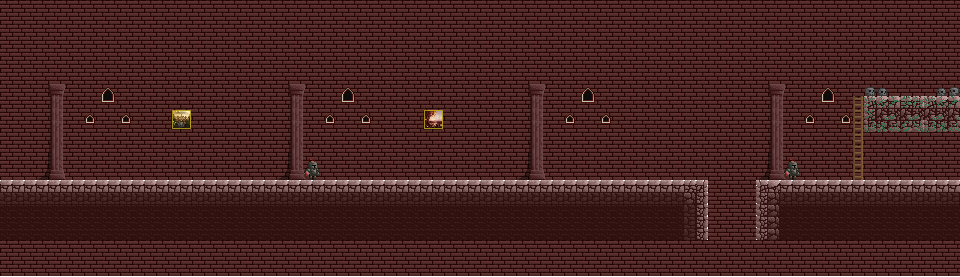
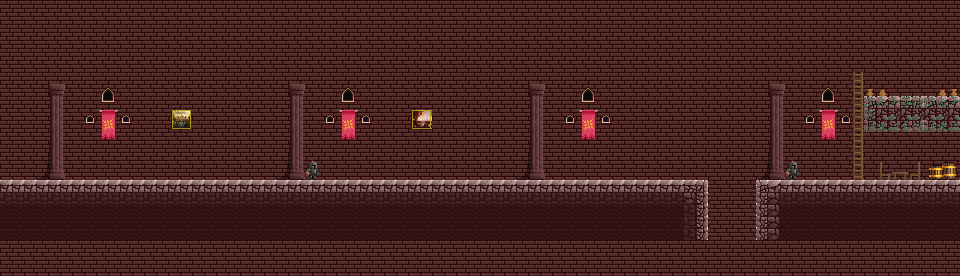
props added to level 3

Changed region(s): [[0.0, 0.2609, 1.0, 1.0]]

diff --git a/src/lvl3.cpp b/src/lvl3.cpp
@@ -5,6 +5,7 @@ Level3::Level3()
     loadinstr();
     loadmap();
     loadplayer();
+    loadprops();
     addcolliders();
     s = LoadSound("");
 }
@@ -12,8 +13,9 @@ Level3::Level3()
 Level3::~Level3()
 {
     instpage.unload();
+    unloadprops();
     player = nullptr;
-    map1 = map2 = nullptr;
+    map = map1 = map2 = nullptr;
     UnloadSound(s);
 }
 
@@ -46,14 +48,14 @@ void Level3::updatechar(float dt)
     if (IsKeyDown(KEY_A))
         player->vel.x = -1.0;
 
-    // if (IsKeyDown(KEY_S))
-    //     player->vel.y = 1.0;
+    if (IsKeyDown(KEY_S) and stairs)
+        player->vel.y = 1.0;
 
     if (IsKeyDown(KEY_D))
         player->vel.x = 1.0;
 
-    // if (IsKeyDown(KEY_W))
-    //     player->vel.y = -1.0;
+    if (IsKeyDown(KEY_W) and stairs)
+        player->vel.y = -1.0;
 
     if (Vector2Length(player->vel) != 0.0)
     {
@@ -92,7 +94,8 @@ void Level3::updatechar(float dt)
 
     Rectangle source{player->frame * player->width, 0.f, player->right_left * player->width, player->height};
     Rectangle dest{player->xpos, player->ypos, player->scale * player->width, player->scale * player->height};
-    DrawTexturePro(player->texture.getTexture(), source, dest, Vector2{}, 0.0, WHITE);
+    if ((firstm and !enter) || (!firstm and enter))
+        DrawTexturePro(player->texture.getTexture(), source, dest, Vector2{}, 0.0, WHITE);
 }
 
 void Level3::render()
@@ -105,12 +108,89 @@ void Level3::render()
     {
         camx = 1920.f;
     }
-    
-    map1->drawmap(Vector2{camx, camy});
+
+    if (firstm)
+    {
+        map1->drawmap(Vector2{camx, camy});
+        DrawTexturePro(rdoor.tex, Rectangle{(rdoor.frame % 5) * 24.f, (rdoor.frame / 5) * 24.f, 24.f, 24.f}, Rectangle{rdoor.pos.x, rdoor.pos.y, 192.f, 192.f}, Vector2{camx, camy}, 0.f, WHITE);
+        for (auto t : ftorches)
+            DrawTexturePro(t.tex, Rectangle{t.id * 24.f, t.frame * 24.f, 24.f, 24.f}, Rectangle{t.pos.x, t.pos.y, 96.f, 96.f}, Vector2{camx, camy}, 0.f, WHITE);
+        for (auto &c : fcandles)
+            DrawTexturePro(c.tex, Rectangle{c.id * 12.f, c.frame * 12.f, 12.f, 12.f}, Rectangle{c.pos.x, c.pos.y, 48.f, 48.f}, Vector2{camx, camy}, 0.f, WHITE);
+        for (auto &s : fchan)
+            DrawTexturePro(s.tex, Rectangle{s.id * 36.f, s.frame * 36.f, 36.f, 36.f}, Rectangle{s.pos.x, s.pos.y, 144.f, 144.f}, Vector2{camx, camy}, 0.f, WHITE);
+    }
+    else
+    {
+        map2->drawmap(Vector2{camx, camy});
+        DrawTexturePro(ddoor.tex, Rectangle{(ddoor.frame % 5) * 24.f, (ddoor.frame / 5) * 24.f, 24.f, 24.f}, Rectangle{ddoor.pos.x, ddoor.pos.y, 192.f, 192.f}, Vector2{camx, camy}, 0.f, WHITE);
+        for (auto &t : storches)
+            DrawTexturePro(t.tex, Rectangle{t.id * 24.f, t.frame * 24.f, 24.f, 24.f}, Rectangle{t.pos.x, t.pos.y, 96.f, 96.f}, Vector2{camx, camy}, 0.f, WHITE);
+        for (auto &c : scandles)
+            DrawTexturePro(c.tex, Rectangle{c.id * 12.f, c.frame * 12.f, 12.f, 12.f}, Rectangle{c.pos.x, c.pos.y, 48.f, 48.f}, Vector2{camx, camy}, 0.f, WHITE);
+        for (auto &s : schan)
+            DrawTexturePro(s.tex, Rectangle{s.id * 36.f, s.frame * 36.f, 36.f, 36.f}, Rectangle{s.pos.x, s.pos.y, 144.f, 144.f}, Vector2{camx, camy}, 0.f, WHITE);
+    }
 }
 
 void Level3::update(float dt)
 {
+    frame_cnt++;
+    frame_cnt %= 30;
+
+    if (IsKeyPressed(KEY_ENTER))
+        opendoor = true;
+    if (opendoor and (frame_cnt % 4 == 0))
+        rdoor.frame++;
+    if (rdoor.frame == 21)
+        firstm = false;
+    if (rdoor.frame > 20)
+        rdoor.frame = 20;
+    if ((!firstm and !dooropen) and (frame_cnt % 4 == 0))
+        ddoor.frame++;
+    if (ddoor.frame == 20)
+        enter = true;
+    if (ddoor.frame > 20)
+        ddoor.frame = 20;
+
+    if (frame_cnt % 10 == 0)
+    {
+        for (auto &t : ftorches)
+        {
+            t.frame++;
+            t.frame %= 3;
+        }
+        for (auto &t : storches)
+        {
+            t.frame++;
+            t.frame %= 3;
+        }
+    }
+
+    if (frame_cnt % 5 == 0)
+    {
+        for (auto &c : fcandles)
+        {
+            c.frame++;
+            c.frame %= 6;
+        }
+        for (auto &c : scandles)
+        {
+            c.frame++;
+            c.frame %= 6;
+        }
+        for (auto &s : fchan)
+        {
+            s.frame++;
+            s.frame %= 6;
+        }
+        for (auto &s : schan)
+        {
+            s.frame++;
+            s.frame %= 6;
+        }
+    }
+
     updatechar(dt);
 }
 
@@ -127,4 +207,59 @@ void Level3::loadinstr()
 void Level3::instr()
 {
     DrawTexture(instpage.getTexture(), 0, 0, WHITE);
+}
+
+void Level3::loadprops()
+{
+    ftorches.push_back(Torch{0, 0, Vector2{312.f, 336.f}});
+    ftorches.push_back(Torch{1, 0, Vector2{456.f, 336.f}});
+    ftorches.push_back(Torch{4, 0, Vector2{1272.f, 336.f}});
+    ftorches.push_back(Torch{5, 0, Vector2{1416.f, 336.f}});
+    ftorches.push_back(Torch{8, 0, Vector2{2232.f, 336.f}});
+    ftorches.push_back(Torch{9, 0, Vector2{2376.f, 336.f}});
+    ftorches.push_back(Torch{12, 0, Vector2{3192.f, 336.f}});
+    ftorches.push_back(Torch{13, 0, Vector2{3336.f, 336.f}});
+
+    storches.push_back(Torch{2, 0, Vector2{312.f, 336.f}});
+    storches.push_back(Torch{3, 0, Vector2{456.f, 336.f}});
+    storches.push_back(Torch{6, 0, Vector2{1272.f, 336.f}});
+    storches.push_back(Torch{7, 0, Vector2{1416.f, 336.f}});
+    storches.push_back(Torch{10, 0, Vector2{2232.f, 336.f}});
+    storches.push_back(Torch{11, 0, Vector2{2376.f, 336.f}});
+    storches.push_back(Torch{14, 0, Vector2{3192.f, 336.f}});
+    storches.push_back(Torch{15, 0, Vector2{3336.f, 336.f}});
+
+    fcandles.push_back(Candles{0, 0, Vector2{3552.f, 336.f}});
+    fcandles.push_back(Candles{1, 0, Vector2{3696.f, 336.f}});
+    scandles.push_back(Candles{2, 0, Vector2{3552.f, 336.f}});
+    scandles.push_back(Candles{3, 0, Vector2{3696.f, 336.f}});
+
+    fchan.push_back(Chandelier{0, 0, Vector2{648.f, 0.f}});
+    fchan.push_back(Chandelier{1, 0, Vector2{1608.f, 0.f}});
+    fchan.push_back(Chandelier{0, 0, Vector2{2568.f, 0.f}});
+    fchan.push_back(Chandelier{1, 0, Vector2{3528.f, 0.f}});
+    schan.push_back(Chandelier{2, 0, Vector2{648.f, 0.f}});
+    schan.push_back(Chandelier{3, 0, Vector2{1608.f, 0.f}});
+    schan.push_back(Chandelier{2, 0, Vector2{2568.f, 0.f}});
+    schan.push_back(Chandelier{3, 0, Vector2{3528.f, 0.f}});
+
+    
+}
+
+void Level3::unloadprops()
+{
+    for (auto &t : ftorches)
+        UnloadTexture(t.tex);
+    for (auto &t : storches)
+        UnloadTexture(t.tex);
+
+    for (auto &c : fcandles)
+        UnloadTexture(c.tex);
+    for (auto &c : scandles)
+        UnloadTexture(c.tex);
+
+    for (auto &s : fchan)
+        UnloadTexture(s.tex);
+    for (auto &s : schan)
+        UnloadTexture(s.tex);
 }

diff --git a/include/lvl3.hpp b/include/lvl3.hpp
@@ -2,11 +2,92 @@
 
 #include "level.hpp"
 
+struct RDoor
+{
+    int frame = 0;
+    Vector2 pos = {3552.f, 192.f};
+    Texture2D tex = LoadTexture("assets/props/RDoor.png");
+};
+
+struct DDoor
+{
+    int frame = 0;
+    Vector2 pos = {3552.f, 192.f};
+    Texture2D tex = LoadTexture("assets/props/DDoor.png");
+};
+
+struct Water
+{
+    Vector2 pos;
+    Texture2D tex = LoadTexture("assets/props/FlowingWater.png");
+};
+
+struct Lava
+{
+    Vector2 pos;
+    Texture2D tex = LoadTexture("assets/props/FlowingLava.png");
+};
+
+struct WaterFall
+{
+    Vector2 pos;
+    Texture2D tex = LoadTexture("assets/props/FallingWater.png");
+};
+
+struct LavaFall
+{
+    Vector2 pos;
+    Texture2D tex = LoadTexture("assets/props/FallingWater.png");
+};
+
+struct Torch
+{
+    int id;
+    int frame;
+    Vector2 pos;
+    Texture2D tex = LoadTexture("assets/props/Torches.png");
+};
+
+struct Candles
+{
+    int id;
+    int frame;
+    Vector2 pos;
+    Texture2D tex = LoadTexture("assets/props/Candles.png");
+};
+
+struct Chandelier
+{
+    int id;
+    int frame;
+    Vector2 pos;
+    Texture2D tex = LoadTexture("assets/props/Chandeliers.png");
+};
+
 class Level3 : public Level
 {
     Map *map1, *map2;
     Sound s;
-    bool first{true};
+
+    int frame_cnt{}, flow_frame{}, fall_frame{};
+    bool firstm{true}, stairs{}, opendoor{}, dooropen{}, enter{};
+
+    std::vector<Torch> ftorches;
+    std::vector<Torch> storches;
+
+    std::vector<Candles> fcandles;
+    std::vector<Candles> scandles;
+
+    std::vector<Chandelier> fchan;
+    std::vector<Chandelier> schan;
+
+    std::vector<Water> water;
+    std::vector<Lava> lava;
+    std::vector<WaterFall> waterf;
+    std::vector<LavaFall> lavaf;
+
+    RDoor rdoor;
+    DDoor ddoor;
 
 protected:
     virtual void loadmap() override;
@@ -15,6 +96,9 @@ protected:
     virtual void addcolliders() override;
     virtual void updatechar(float dt) override;
     virtual void loadinstr() override;
+
+    void loadprops();
+    void unloadprops();
 
 public:
     Level3();

diff --git a/src/game.cpp b/src/game.cpp
@@ -35,6 +35,7 @@ void Game::startscreen()
         }
         EndDrawing();
     }
+    currLevel = 3;
     startsc.unload();
     menu = new Menu();
     home = new Home();

diff --git a/include/character.hpp b/include/character.hpp
@@ -2,7 +2,6 @@
 
 #include <raylib.h>
 #include <raymath.h>
-#include "collision.hpp"
 #include "texture.hpp"
 
 class Character
